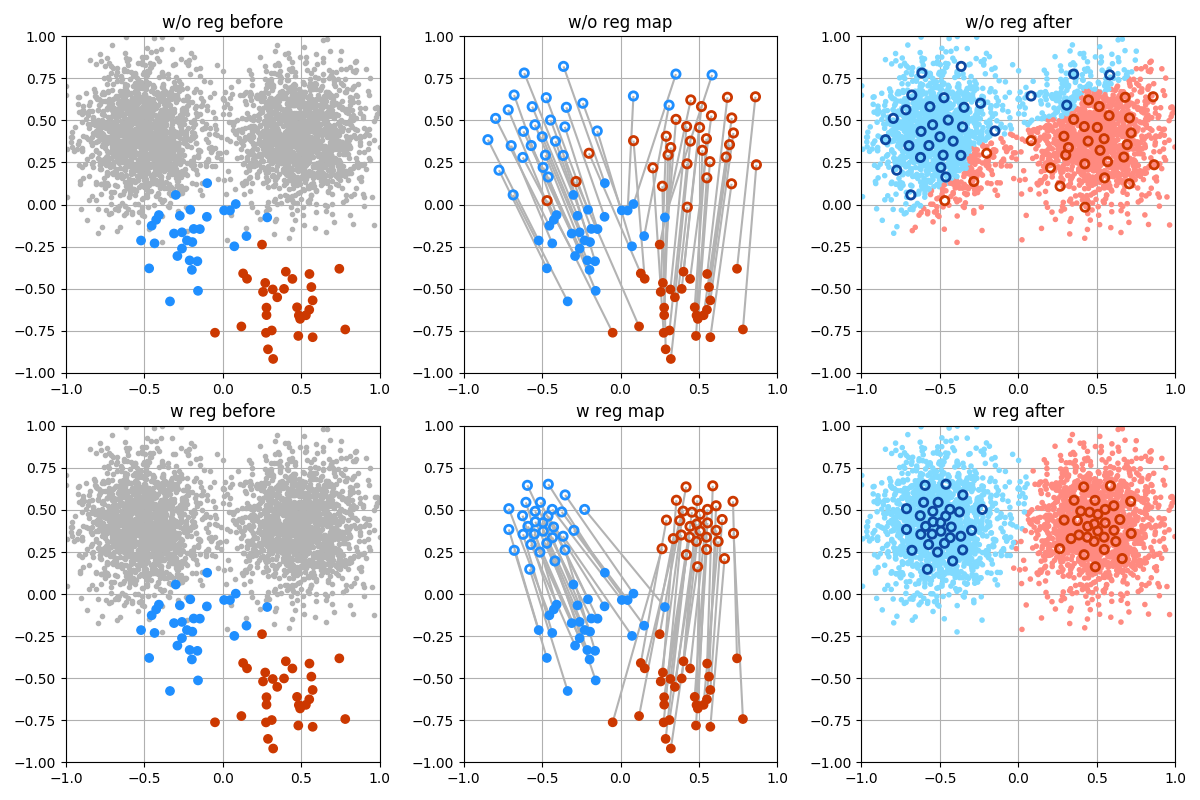
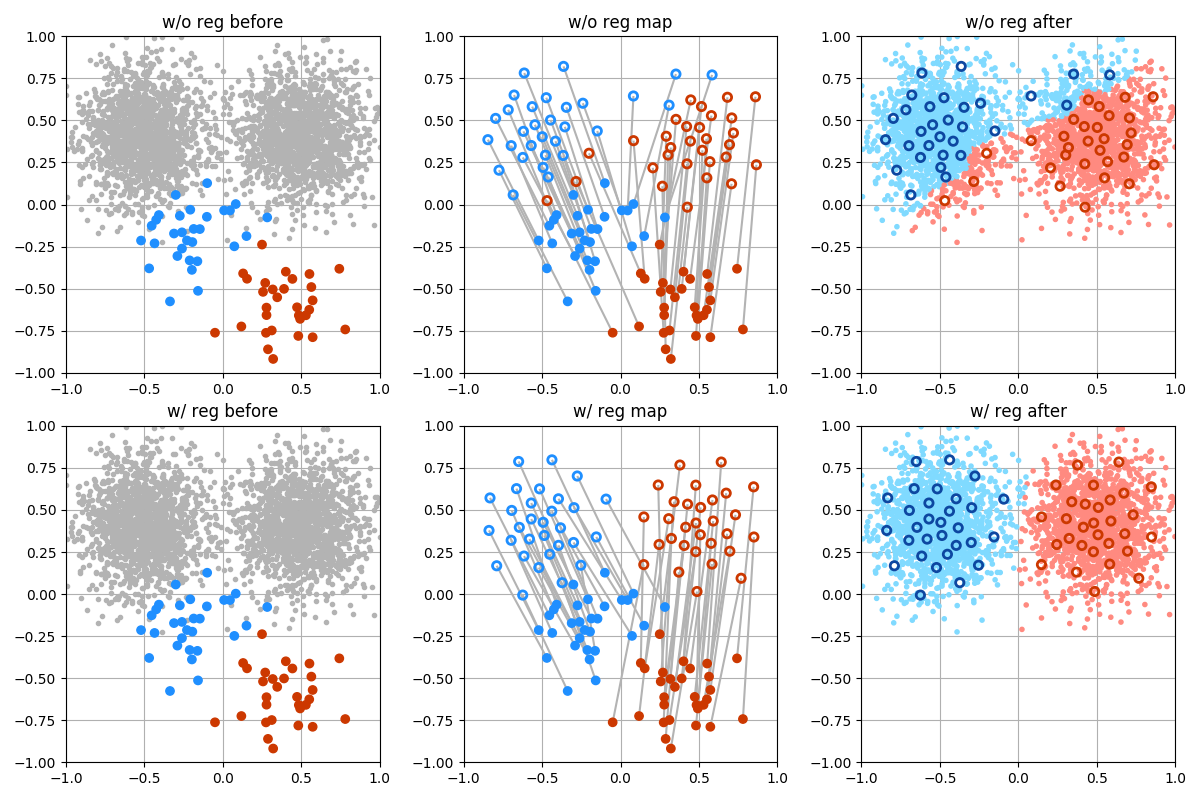
Minor readme update (#11)

diff --git a/demo_transform.py b/demo_transform.py
@@ -1,6 +1,6 @@
 # Regularized Wasserstein Means (RWM)
 # Author: Liang Mi <icemiliang@gmail.com>
-# Date: Jan 6th 2019
+# Date: Jan 7th 2019
 
 """
 ===========================================
@@ -49,7 +49,7 @@ ot.setup(max_iter_p = 5, max_iter_h = 2000)
 
 # ----- plot before ----- #
 p_coor_before = np.copy(ot.p_coor)
-plt.figure(figsize=(12,6))
+plt.figure(figsize=(12,8))
 xmin = -2.0; xmax = 2.0; ymin = -1.5; ymax = 1.5
 
 cp = [vot.color_blue, vot.color_red]
@@ -94,7 +94,7 @@ ot_reg.setup(max_iter_p = 10, max_iter_h = 2000)
 # ----- plot before ----- #
 cp = [vot.color_blue, vot.color_red]
 cp = [cp[label] for index,label in np.ndenumerate(ot_reg.p_label)]
-plt.subplot(234); plt.xlim(xmin,1.5); plt.ylim(ymin,ymax); plt.grid(True); plt.title('w reg before')
+plt.subplot(234); plt.xlim(xmin,1.5); plt.ylim(ymin,ymax); plt.grid(True); plt.title('w/ reg before')
 plt.scatter(ot_reg.e_coor[:,0], ot_reg.e_coor[:,1], marker='.', color=vot.color_light_grey, zorder=2)
 plt.scatter(p_coor_before[:,0], p_coor_before[:,1], marker='o', color=cp, zorder=3)
 
@@ -112,7 +112,7 @@ ot_reg.cluster()
 p_coor_after = np.copy(ot_reg.p_coor)
 map = [[tuple(p1),tuple(p2)] for p1,p2 in zip(p_coor_before.tolist(), p_coor_after.tolist())]
 lines = mc.LineCollection(map, colors=vot.color_light_grey)
-fig235 = plt.subplot(235); plt.xlim(xmin,xmax); plt.ylim(ymin,ymax); plt.grid(True); plt.title('w reg map')
+fig235 = plt.subplot(235); plt.xlim(xmin,xmax); plt.ylim(ymin,ymax); plt.grid(True); plt.title('w/ reg map')
 fig235.add_collection(lines)
 plt.scatter(p_coor_before[:,0], p_coor_before[:,1], marker='o', color=cp,zorder=3)
 plt.scatter(p_coor_after[:,0], p_coor_after[:,1], marker='o', facecolors='none', linewidth=2, color=cp, zorder=2)
@@ -123,7 +123,7 @@ ce = [vot.color_light_blue, vot.color_light_red]
 ce = [ce[label] for index,label in np.ndenumerate(le)]
 cp = [vot.color_dark_blue, vot.color_red]
 cp = [cp[label] for index,label in np.ndenumerate(ot_reg.p_label)]
-plt.subplot(236); plt.xlim(xmin,xmax); plt.ylim(ymin,ymax); plt.grid(True); plt.title('w reg after')
+plt.subplot(236); plt.xlim(xmin,xmax); plt.ylim(ymin,ymax); plt.grid(True); plt.title('w/ reg after')
 plt.scatter(ot_reg.e_coor[:,0], ot_reg.e_coor[:,1], marker='.', color=ce, zorder=2)
 plt.scatter(p_coor_after[:,0], p_coor_after[:,1], marker='o', facecolors='none', linewidth=2, color=cp, zorder=3)
 

diff --git a/demo_potential.py b/demo_potential.py
@@ -1,6 +1,6 @@
 # Regularized Wasserstein Means (RWM)
 # Author: Liang Mi <icemiliang@gmail.com>
-# Date: Jan 6th 2019
+# Date: Jan 7th 2019
 
 """
 ===========================================
@@ -71,7 +71,7 @@ ot_reg.setup(max_iter_p = 5, max_iter_h = 1500)
 # ----- plot before ----- #
 cp = [vot.color_blue, vot.color_red]
 cp = [cp[label] for index,label in np.ndenumerate(ot_reg.p_label)]
-plt.subplot(234); plt.xlim(-1,1); plt.ylim(-1,1); plt.grid(True); plt.title('w reg before')
+plt.subplot(234); plt.xlim(-1,1); plt.ylim(-1,1); plt.grid(True); plt.title('w/ reg before')
 plt.scatter(ot_reg.e_coor[:,0], ot_reg.e_coor[:,1], marker='.', color=vot.color_light_grey, zorder=2)
 plt.scatter(p_coor_before[:,0], p_coor_before[:,1], marker='o', color=cp, zorder=3)
 
@@ -90,7 +90,7 @@ ot_reg.cluster()
 p_coor_after = np.copy(ot_reg.p_coor)
 map = [[tuple(p1),tuple(p2)] for p1,p2 in zip(p_coor_before.tolist(), p_coor_after.tolist())]
 lines = mc.LineCollection(map, colors=vot.color_light_grey)
-fig235 = plt.subplot(235); plt.xlim(-1,1); plt.ylim(-1,1); plt.grid(True); plt.title('w reg map')
+fig235 = plt.subplot(235); plt.xlim(-1,1); plt.ylim(-1,1); plt.grid(True); plt.title('w/ reg map')
 fig235.add_collection(lines)
 plt.scatter(p_coor_before[:,0], p_coor_before[:,1], marker='o', color=cp,zorder=3)
 plt.scatter(p_coor_after[:,0], p_coor_after[:,1], marker='o', facecolors='none', linewidth=2, color=cp, zorder=2)
@@ -101,11 +101,11 @@ ce = [vot.color_light_blue, vot.color_light_red]
 ce = [ce[label] for index,label in np.ndenumerate(le)]
 cp = [vot.color_dark_blue, vot.color_red]
 cp = [cp[label] for index,label in np.ndenumerate(ot_reg.p_label)]
-plt.subplot(236); plt.xlim(-1,1); plt.ylim(-1,1); plt.grid(True); plt.title('w reg after')
+plt.subplot(236); plt.xlim(-1,1); plt.ylim(-1,1); plt.grid(True); plt.title('w/ reg after')
 plt.scatter(ot.e_coor[:,0], ot_reg.e_coor[:,1], marker='.', color=ce, zorder=2)
 plt.scatter(p_coor_after[:,0], p_coor_after[:,1], marker='o', facecolors='none', linewidth=2, color=cp, zorder=3)
 
 # ---- plot and save ---- #
 plt.tight_layout(pad=1.0, w_pad=1.5, h_pad=0.5)
-# plt.savefig("data/rwm.png")
+plt.savefig("data/rwm.png")
 plt.show()

diff --git a/README.md b/README.md
@@ -6,22 +6,25 @@ This package includes the prototype code for computing variational optimal trans
 * The picture below shows the results from original Wasserstein clustering [2] and regularized Wasserstein clustering [3].
 * Below shows two examples.
 
-python demo_potential.py
+demo_potential.py
 ![alt text](data/rwm_potential.png?raw=true)
-python demo_transform.py
+
+demo_transform.py
 ![alt text](data/rwm_transform.png?raw=true)
 
 ## Dependencies
 * Python >= 3.5
 * NumPy >= 1.15.4
 * SciPy >= 1.1.0 (for regularization)
-* scikit-image >= 0.14.1 (for affine transformation)
+* scikit-image >= 0.14.1 (for geometric transformation)
 * Matplotlib >= 3.0.2 (for demo)
 
 ## References
 #### Citing the package
 
 If you find the code helpful, please cite one of the following articles:
+
+**Citing the original Wasserstein clustering:**
 
 Mi, Liang, Wen Zhang, Xianfeng Gu, and Yalin Wang. "Variational Wasserstein Clustering." In Proceedings of the European Conference on Computer Vision (ECCV), pp. 322-337. 2018.
 ```
@@ -33,6 +36,8 @@ Mi, Liang, Wen Zhang, Xianfeng Gu, and Yalin Wang. "Variational Wasserstein Clus
   year={2018}
 }
 ```
+
+**Citing the regularized Wasserstein clustering:**
 
 Mi, Liang, Wen Zhang, and Yalin Wang. "Regularized Wasserstein Means Based on Variational Transportation." arXiv preprint arXiv:1812.00338 (2018).
 ```
